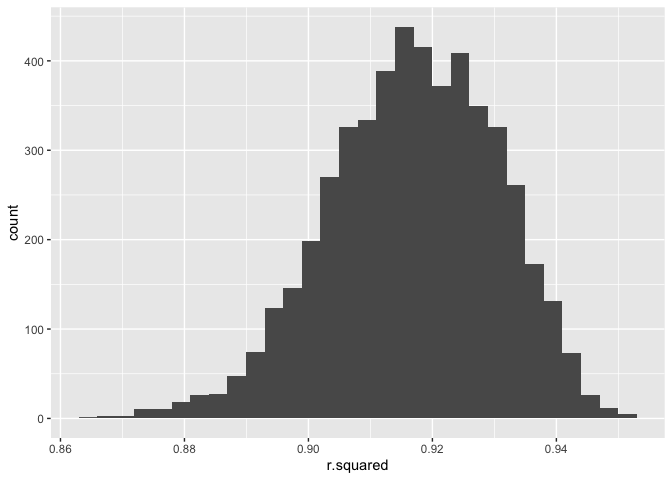
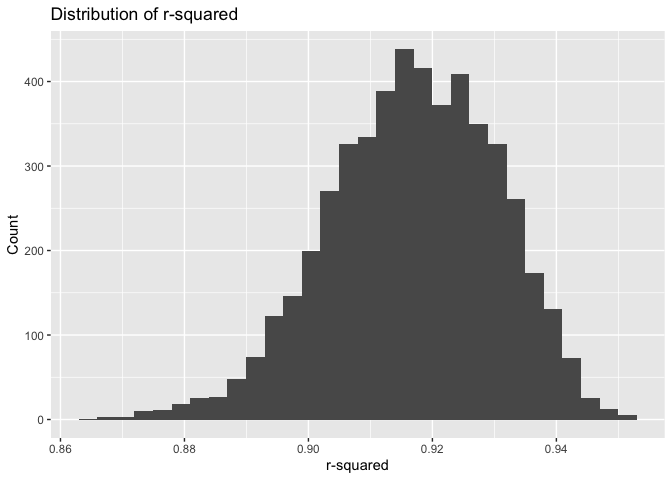
final commit

diff --git a/p8105_hw6_wz2630.md b/p8105_hw6_wz2630.md
@@ -172,39 +172,39 @@ pivot_bootstrap_results =
 # Plot the distribution of your estimates
 pivot_bootstrap_results |> 
   ggplot(aes(x = r.squared)) + 
-  geom_histogram()
+  geom_histogram() + 
+  labs(x = "r-squared", y = "Count", title = "Distribution of r-squared")
 ```
 
     ## `stat_bin()` using `bins = 30`. Pick better value with `binwidth`.
 
 ![](p8105_hw6_wz2630_files/figure-gfm/unnamed-chunk-4-1.png)<!-- -->
 
+**Comments:** The distribution of r-squared estimates are approximately
+normal.
+
 ``` r
 pivot_bootstrap_results |> 
   ggplot(aes(x = quantity2)) + 
   geom_histogram() + 
-  labs(x = "log(beta_hat1*beta_hat2)")
+  labs(x = "log(beta_hat1*beta_hat2)", y = "Count", title = "Distribution of log(beta_hat1*beta_hat2)")
 ```
 
     ## `stat_bin()` using `bins = 30`. Pick better value with `binwidth`.
 
     ## Warning: Removed 3361 rows containing non-finite values (`stat_bin()`).
 
-![](p8105_hw6_wz2630_files/figure-gfm/unnamed-chunk-4-2.png)<!-- -->
+![](p8105_hw6_wz2630_files/figure-gfm/unnamed-chunk-5-1.png)<!-- -->
 
 **Comments:**
-
-The distribution of r-squared estimates are approximately normal. The
-r-squared values range from 0.86 to 1 and counts range from 0 to about
-490.
 
 The distribution of log(beta_hat1xbeta_hat2) is left skewed. There seems
 to be outliers based on the histogram.
 
-- Applying log(tmin \* prcp) produced NaNs because log cannot be applied
-  to ≤ 0; therefore, I have to explicitly apply to only positive values.
-  Note: there are `sum(is.na(pivot_bootstrap_results[["quantity2"]]))`
-  quantity2 with negative values that we cannot take log of.
+Applying log(tmin \* prcp) produced NaNs because log cannot be applied
+to ≤ 0; therefore, I have to explicitly apply to only positive values.
+Note: there are `sum(is.na(pivot_bootstrap_results[["quantity2"]]))` =
+3361 quantity2 with negative values that we cannot take log of.
 
 - log(beta_hat1\*beta_hat2) = quantity2
 
@@ -371,10 +371,10 @@ summary(stepwise_model) |>
 
 **Comments:** Variables for the stepwise model were chosen based on
 eliminating those with large p-value scores –though there is not set
-definition, I used those with p-value \< 0.20. It is also reasonable
-that a baby’s birthweight is related to family monthly income, the
-baby’s measurements, gestational age in weeks, mother’s prepregnancy
-weight and whether the mother smoked during pregnancy.
+definition/requirement, I used those with p-value \< 0.20. It is also
+reasonable that a baby’s birthweight is related to family monthly
+income, the baby’s measurements, gestational age in weeks, mother’s
+prepregnancy weight and mother’s smoking status during pregnancy.
 
 ### predictions vs. residuals plot
 
@@ -387,7 +387,7 @@ birthweight |>
   labs(x = "Predicted values", y = "Residuals", title = "Predicted Values vs. Residuals")
 ```
 
-![](p8105_hw6_wz2630_files/figure-gfm/unnamed-chunk-9-1.png)<!-- -->
+![](p8105_hw6_wz2630_files/figure-gfm/unnamed-chunk-10-1.png)<!-- -->
 
 **Comments:**
 
@@ -449,7 +449,7 @@ bwt_df |>
        title = "Distribution of RMSE Values for Each Candidate Model")
 ```
 
-![](p8105_hw6_wz2630_files/figure-gfm/unnamed-chunk-11-1.png)<!-- -->
+![](p8105_hw6_wz2630_files/figure-gfm/unnamed-chunk-12-1.png)<!-- -->
 
 **Comments:**
 
@@ -457,8 +457,9 @@ My proposed stepwise model appears to have the smallest RMSE. (RMSE
 provides a measure of the typical size of the errors the model makes in
 its predictions. A lower RMSE indicates a better fit of the model to the
 data.) Comparison model 1 (blength + gaweeks) is too simple and is not a
-good predictive model for baby birthweight. Comparison model 2 (bhead +
-blength + babysex with up to 3-way interaction) is comparable to my
-proposed model. Both models have apparent overlap in distributions
-according to the graph. However, the stepwise one has the lowest RMSE
-and is the model I would choose of the 3.
+good predictive model for baby birthweight. It also has the highest RMSE
+(not preferrable). Comparison model 2 (bhead + blength + babysex with up
+to 3-way interaction) is comparable to my proposed model. Both models
+have apparent overlap in distributions according to the graph. However,
+the stepwise one has the lowest RMSE and is the model I would choose of
+the 3.
